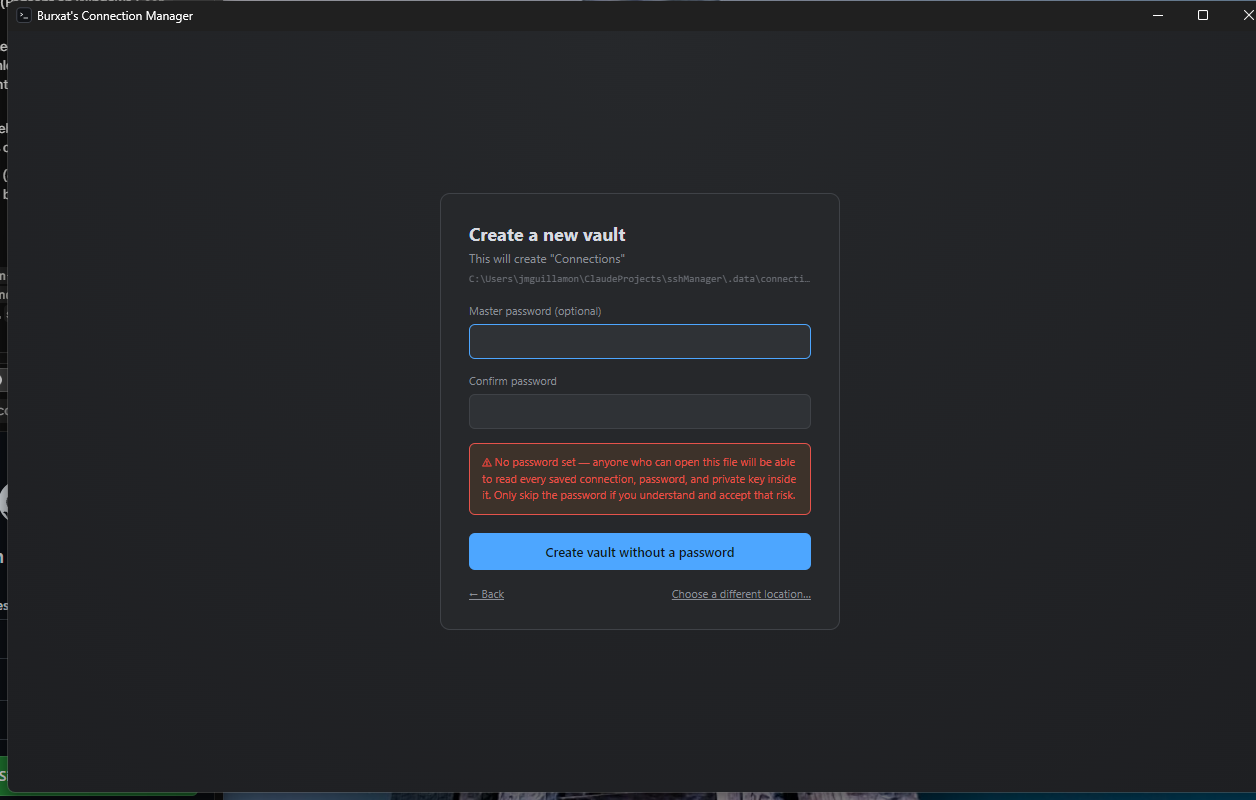
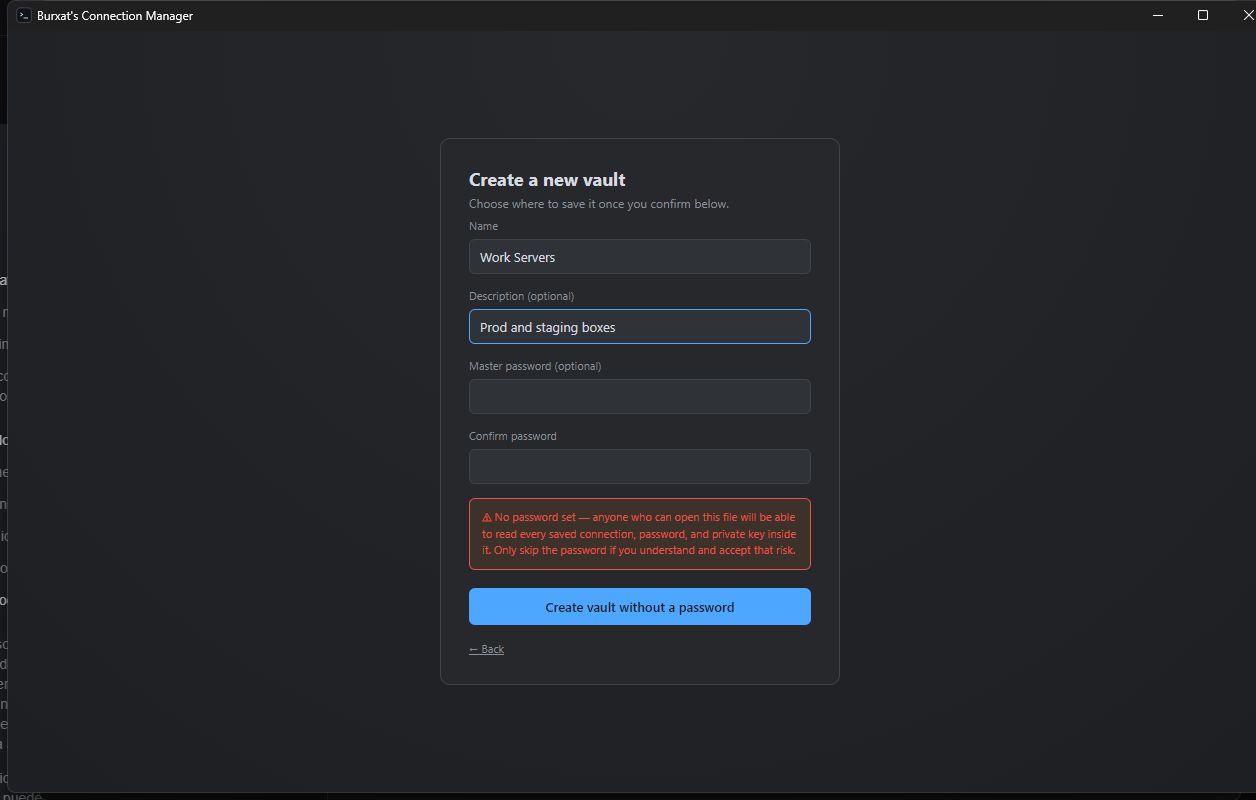
Bump version to 0.2.0, add CHANGELOG, refresh docs
Documents everything since v0.1.0: RDP support, terminal
colorization, the vault-creation/menu redesign, change master
password, and the battery-drain and pty-sizing fixes.

Also updates README sections that had drifted out of date with the
vault-flow redesign (Getting started, Usage guide, Features), and
recaptures the two screenshots whose UI changed (create-vault form
now shows Name/Description; main window header now shows the vault
hamburger menu instead of three icon buttons).

diff --git a/README.md b/README.md
@@ -28,6 +28,7 @@ encrypted vault file that travels with the app, not a fixed per-user profile pat
 - [Known limitations](#known-limitations)
 - [Contributing](#contributing)
 - [License](#license)
+- [Changelog](CHANGELOG.md)
 
 ---
 
@@ -55,10 +56,12 @@ encrypted vault file that travels with the app, not a fixed per-user profile pat
   polled over a separate exec channel — works against both Linux/Unix (`/proc`) and Windows
   (`wmic`/PowerShell CIM) targets.
 - **Terminal quality-of-life**: right-click anywhere to paste the clipboard, select text to copy
-  it automatically — no separate copy/paste menu needed.
+  it automatically — no separate copy/paste menu needed. Optional output colorization highlights
+  IPs, MAC addresses, URLs, UUIDs, and error/warning/success words, without ever touching lines
+  that already contain their own color codes.
 - **Multiple vaults** — keep entirely separate, separately-password-protected sets of
   connections (e.g. "work" vs "personal"), switch between them, or point the app at a vault file
-  anywhere on disk.
+  anywhere on disk. Change a vault's master password (or remove it) at any time.
 - **Fully portable** — copy the app folder (or the release zip) anywhere, including a USB drive;
   the encrypted vault is created next to the executable, not in a fixed OS profile path.
 - **No telemetry, no network calls except to the hosts you connect to.** See
@@ -99,28 +102,28 @@ npm run dev
 
 The app always tries to reopen the last vault you used. **On first launch — or any time that
 last-used vault file can't be found** (a fresh install, a moved/renamed app folder, a deleted
-file, a different machine) — it falls back to its default vault location next to the executable
-and, finding nothing there either, shows two big buttons instead of a password form:
+file, a different machine) — it shows two big buttons instead of a password form:
 
 > **Create a new vault** &nbsp;/&nbsp; **Open an existing vault**
 
-- **Create a new vault** creates a brand-new encrypted vault at the default location (or
-  anywhere else, via *Choose a different location…*). A master password is asked for but is
-  **optional** — leaving it blank shows a clear warning that anyone who can open that file will
-  be able to read every saved connection, password, and private key inside it, but the app will
-  let you proceed if you accept that trade-off.
+- **Create a new vault** goes straight to a form: **Name** (required), **Description**
+  (optional), and a master password (also **optional** — leaving it blank shows a clear warning
+  that anyone who can open that file will be able to read every saved connection, password, and
+  private key inside it, but the app will let you proceed if you accept that trade-off).
+  Confirming opens a save dialog, pre-filled with your chosen name, so you pick exactly where the
+  vault file goes.
 - **Open an existing vault** lets you browse to a `.vault` file you already have (e.g. copied
   over from another machine) and unlock it.
 
 Once a vault exists at the current path, launching the app instead prompts:
 
-> **Enter the master password for "connections.vault"**
+> **Enter the master password for "\<vault name\>"**
 
 If that vault was created with a password, enter it to unlock. If it was created without one,
 just leave the field blank and submit. There's no password-recovery option for password-protected
 vaults — if it's forgotten, that vault's contents are unrecoverable by design (see
-[How the vault works](#how-the-vault-works)). You can also open a different vault file, or create
-a new one at a location of your choosing, from the sidebar header at any time.
+[How the vault works](#how-the-vault-works)). You can also open a different vault file or create
+a new one from the vault menu (☰, next to the vault name) at any time.
 
 ## Usage guide
 
@@ -141,9 +144,13 @@ a new one at a location of your choosing, from the sidebar header at any time.
 - **Settings** (gear icon): default editor for "Edit", light/dark theme, view controls (reload,
   DevTools, zoom, fullscreen — these replace what would normally be a native menu bar, which this
   app doesn't use).
-- **Multiple vaults**: use the folder icon in the sidebar header to open a different vault file,
-  or the "+" icon to create a new one at a location you choose. Each vault has its own (optional)
-  master password.
+- **Vault menu** (☰, next to the vault name): *Open a different vault*, *Create a new vault*,
+  *Lock vault*, *Save current vault as* (writes a copy to a new file under the same password and
+  switches to it), and *Change master password* (requires the current one; the new one is
+  optional, same as at creation).
+- **Multiple vaults**: keep entirely separate, separately-password-protected sets of connections
+  by creating or opening different vault files. Each vault has its own (optional) master
+  password.
 
 ## How the vault works
 

diff --git a/CHANGELOG.md b/CHANGELOG.md
@@ -1,0 +1,70 @@
+# Changelog
+
+All notable changes to this project are documented here.
+
+## [0.2.0] - 2026-08-27
+
+### Added
+
+- **RDP connections.** A new tab in the connection dialog alongside SSH — opens through your
+  OS's native Remote Desktop client (`mstsc` on Windows, `xfreerdp` on Linux) with host/username
+  prefilled. The password is never stored or written to disk; the native client prompts for it.
+- **Terminal output colorization.** Highlights IPs (v4/v6), MAC addresses, URLs, UUIDs, and a
+  few status words (error/warning/success) in plain SSH output. Lines that already contain their
+  own ANSI codes (colored `ls`, prompts, vim, htop, etc.) are always left untouched. Toggle via
+  Settings → **Terminal style**: *Default (colored)* or *Raw*.
+- **Redesigned vault creation.** "Create a new vault" now goes straight to a form (Name
+  required, Description optional, master password optional) instead of showing a fixed file path
+  before you'd named anything — the save dialog only appears once you confirm, pre-filled with
+  your name as the suggested filename. Vaults now carry their name/description inside the
+  encrypted data itself, so the sidebar shows what you actually called it.
+- **Vault menu.** The three icon buttons next to the vault name are now a single hamburger menu
+  with text labels: *Open a different vault*, *Create a new vault*, *Lock vault*, *Save current
+  vault as* (new — writes the vault to a new file under the same password and switches to it),
+  and *Change master password* (new — requires the current password, new password is optional
+  same as at creation).
+
+### Fixed
+
+- **Battery drain from idle SSH sessions.** The CPU/RAM stats poller ran every 3 seconds for
+  every connected session indefinitely, regardless of whether its tab was visible or the window
+  had focus — periodic network/CPU wakeups that prevent a laptop from reaching deeper
+  power-saving states. Polling now pauses for any session that isn't both the active tab and in
+  a focused window, and resumes immediately (not on the next tick) when it becomes one again.
+- **Terminal output corruption on Windows targets.** `ssh2`'s `shell()` defaulted to an 80x24
+  pty while this app's terminal is usually much wider; column-aligned output (`ipconfig /all`,
+  `ls -l`, etc.) rendered against that stale narrow width until the follow-up resize landed,
+  corrupting anything already in flight. Fixed by requesting a generously oversized initial pty.
+  Found and fixed together with a related bug where flushing a buffered partial line ending in a
+  bare `\r` (its `\n` not yet arrived) moved the cursor back to column 0, letting later output
+  silently overwrite it.
+
+### Changed
+
+- Removed all "MobaXterm" references from the app and its documentation (not affiliated; no
+  need to reference it).
+
+## [0.1.0] - 2026-08-20
+
+First public release.
+
+### Added
+
+- SSH terminal ([xterm.js](https://xtermjs.org/)) + SFTP file browser side by side, per
+  connection tab.
+- SSH authentication: password, private key (OpenSSH or PuTTY `.ppk`, optional passphrase), or
+  agent (Pageant on Windows, `ssh-agent` on Linux/macOS).
+- Private keys can be imported directly into the vault for full portability, or referenced by
+  file path.
+- SFTP operations: browse, upload, download, rename, delete, create folders, server-side copy,
+  copy-to-another-folder, resizable/reorderable columns.
+- Edit remote files in your own editor, with automatic re-upload on save.
+- Live CPU/RAM stats in the status bar while an SSH session is connected.
+- Terminal right-click-to-paste and select-to-copy.
+- Multiple vaults, each with its own (optional) master password.
+- Fully portable: no installer, vault lives next to the executable.
+- Windows portable zip (custom launcher, no NSIS self-extraction delay) and Linux AppImage
+  build targets.
+
+[0.2.0]: https://github.com/Joanmarcgs/BurxatConnectionManager/releases/tag/v0.2.0
+[0.1.0]: https://github.com/Joanmarcgs/BurxatConnectionManager/releases/tag/v0.1.0
